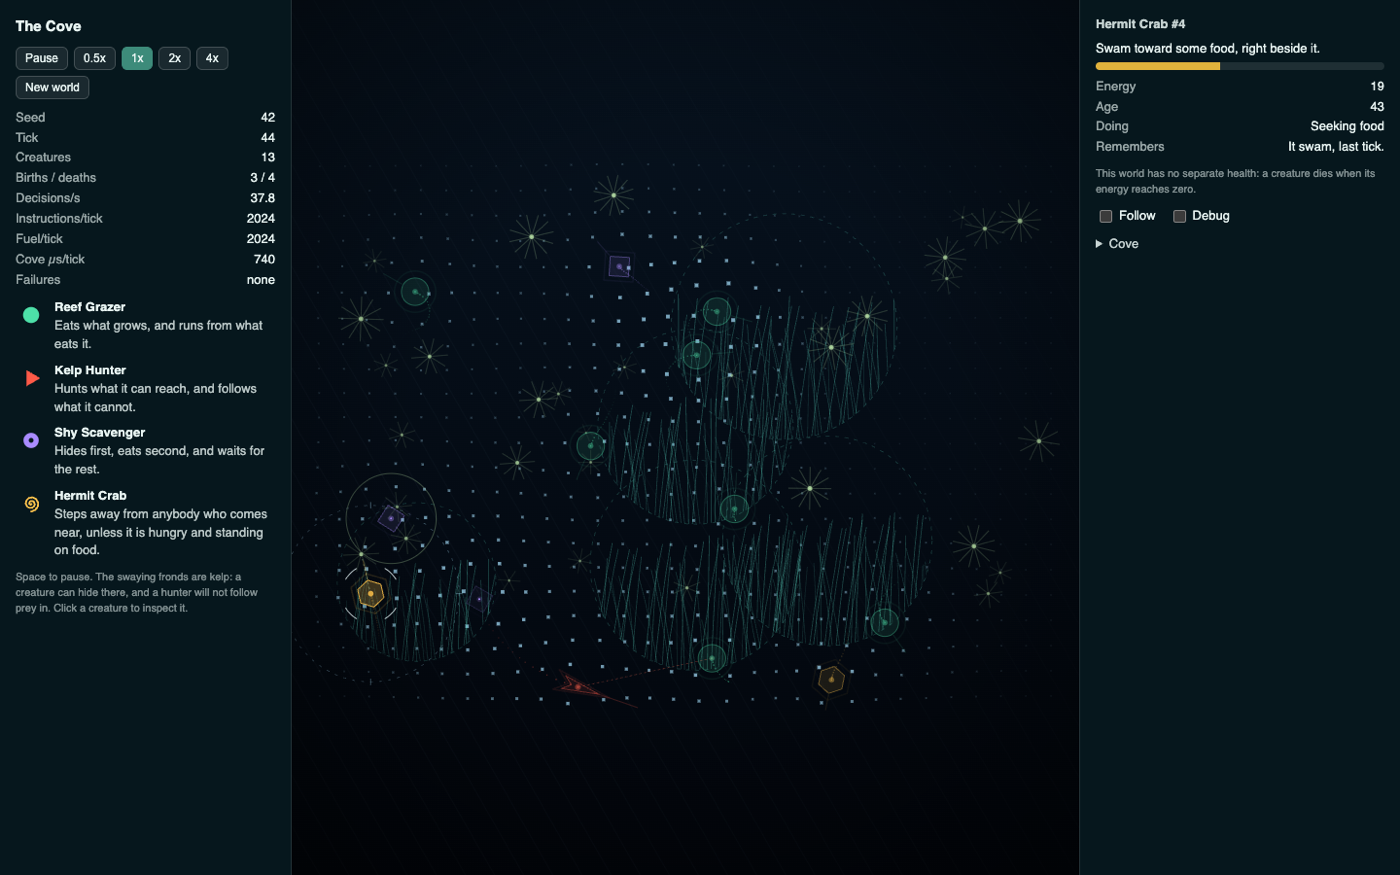
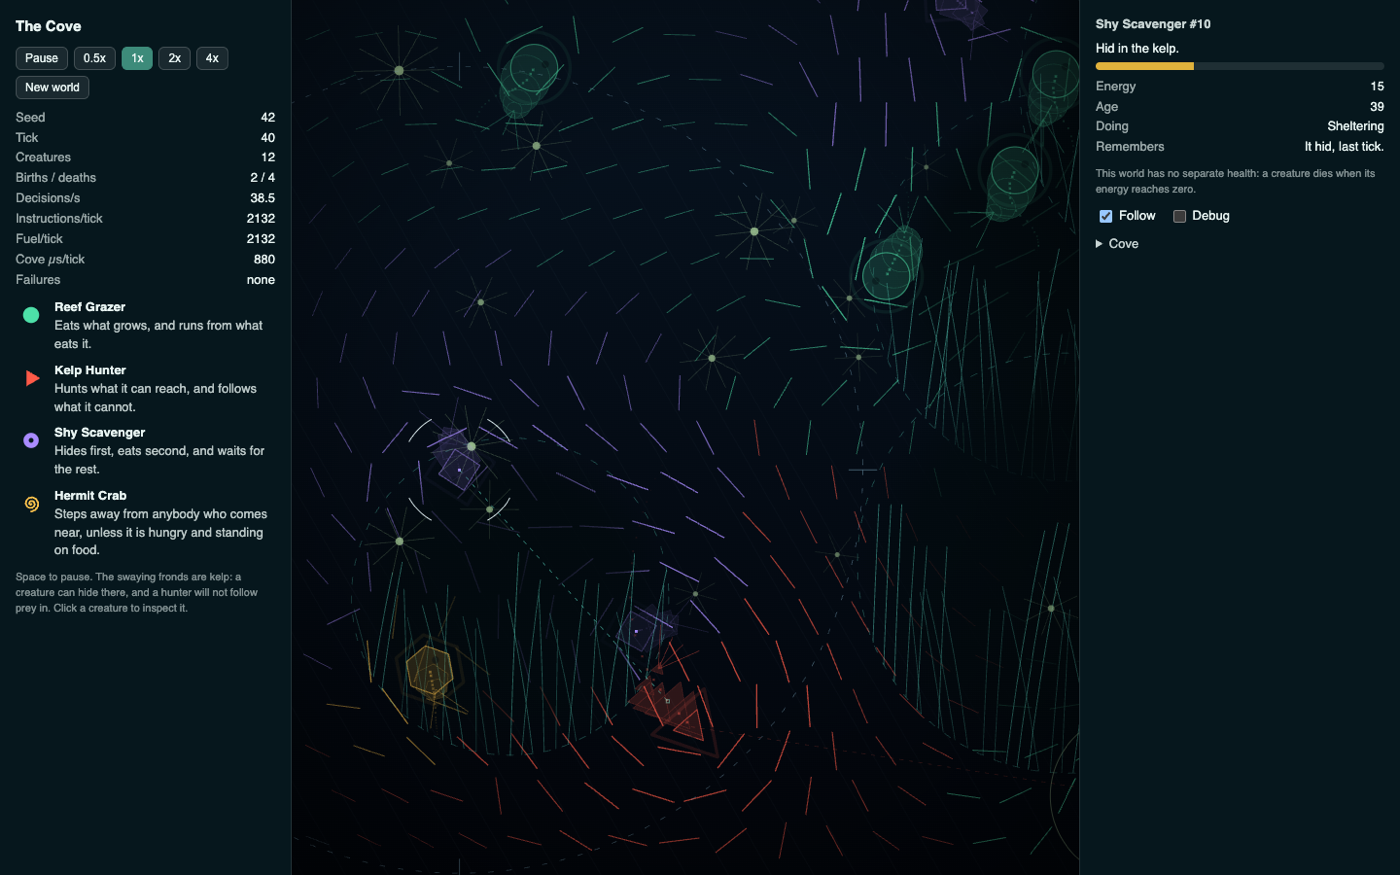
feat(web): a body is one shape repeated down a spine
One primitive is a token, not an animal. A creature is a *series* of them now:
four to seven copies of the same polygon strung along the facing axis, each a
little larger or smaller than the last, some turned a few degrees further round
than the one in front, and the whole chain carrying a wave that travels head to
tail whose speed and amplitude follow the creature's own.

That is the shape a segmented sea creature actually has, and it is an ordinary
generative move — one rule, repeated, varying — so it stays in the register of
the field it swims in rather than becoming an illustration pasted on top of
one. And the wave gives back the motion the single marks had lost: a resting
creature barely stirs and a fleeing one thrashes.

Two things make it read as a body rather than as beads, and both took a wrong
answer first.

**The segments are filled as one path.** Canvas fills the union of the
subpaths, so overlapping circles become a single silhouette with no seams.
Filled separately they are a caterpillar, which is exactly what the first
attempt drew. Every segment's own outline then goes over the top faintly: the
internal arcs are not a mistake to be cleaned up, they are what says the animal
is built out of one shape repeated.

**And the overlap has a narrow window.** Too little and it is a chain of beads;
too much and every body collapses into one slightly-elongated blob, which is
what the second attempt drew. Judging it needed the follow camera — a shape
[…]

diff --git a/apps/web/src/renderer.ts b/apps/web/src/renderer.ts
@@ -709,57 +709,142 @@ function drawTrails(
 // *shape* before any colour is read — which is what the accessibility
 // criterion asks for anyway.
 
-type MarkKind = "chevron" | "circle" | "diamond" | "hex";
+// --- One creature: a body built by repeating one shape down a spine. ---
+//
+// A single primitive is a token, not an animal. A body is a *series* of them:
+// four to seven of the same polygon strung along the facing axis, each a
+// little smaller or larger than the last, some of them turned a few degrees
+// further round than the one in front, and the whole chain carrying a wave
+// that travels from head to tail.
+//
+// That is the shape a segmented sea creature actually has, and it is also an
+// ordinary generative move — one rule, repeated, varying — so it stays in the
+// same register as the field it swims in rather than becoming an illustration
+// pasted on top of one. And the wave is free motion: its speed and amplitude
+// follow the creature's own, so a fleeing animal visibly thrashes and a
+// resting one barely stirs, which is the signal the geometric marks lost.
 
-const MARKS: Readonly<Record<string, MarkKind>> = {
-  wedge: "chevron",
-  round: "circle",
-  ring: "diamond",
-  spiral: "hex",
+type Primitive = "circle" | "triangle" | "diamond" | "hex";
+
+interface Anatomy {
+  /** Which polygon the body is made of. */
+  readonly of: Primitive;
+  /** How many of them. */
+  readonly segments: number;
+  /** How far apart, as a fraction of the head's radius. */
+  readonly gap: number;
+  /** The radius of each segment, head first, as fractions of the head's. */
+  readonly profile: readonly number[];
+  /** Degrees each segment is turned past the one in front. */
+  readonly twist: number;
+  /** How far the tail swings, as a fraction of the head's radius. */
+  readonly sway: number;
+  /** How many strokes fan out of the last segment. */
+  readonly fin: number;
+}
+
+const ANATOMY: Readonly<Record<string, Anatomy>> = {
+  // The grazer: round and blunt, a chain of circles that tapers gently. It is
+  // the shape everything else is read against, so it is the plainest.
+  round: {
+    of: "circle",
+    segments: 5,
+    gap: 0.68,
+    profile: [0.95, 1, 0.82, 0.58, 0.32],
+    twist: 0,
+    sway: 0.55,
+    fin: 3,
+  },
+  // The hunter: long, narrow, and the only body made of a shape with a point.
+  // Seven segments so the wave down it is visible as a wave.
+  wedge: {
+    of: "triangle",
+    segments: 7,
+    gap: 0.6,
+    profile: [0.66, 0.95, 1, 0.82, 0.62, 0.42, 0.26],
+    twist: 0,
+    sway: 0.85,
+    fin: 4,
+  },
+  // The scavenger: a short stack of diamonds, each turned a little further,
+  // so the body reads as something crystalline drifting rather than swimming.
+  ring: {
+    of: "diamond",
+    segments: 4,
+    gap: 0.6,
+    profile: [0.85, 1, 0.72, 0.44],
+    twist: 22,
+    sway: 0.45,
+    fin: 2,
+  },
+  // The crab: three hexagons, largest at the front, barely swaying. A shell
+  // with something under it.
+  spiral: {
+    of: "hex",
+    segments: 3,
+    gap: 0.56,
+    profile: [1, 0.72, 0.45],
+    twist: 14,
+    sway: 0.22,
+    fin: 2,
+  },
 };
 
-const CRUISE_REFERENCE = 1.6;
+const CRUISE_REFERENCE_SPEED = 1.6;
 
-function markPath(
+/// One primitive appended to whatever path is open, for building a union.
+function subPath(
   ctx: CanvasRenderingContext2D,
-  kind: MarkKind,
-  px: number,
-  py: number,
+  of: Primitive,
+  cx: number,
+  cy: number,
+  r: number,
+  angle: number,
+): void {
+  if (of === "circle") {
+    ctx.moveTo(cx + r, cy);
+    ctx.arc(cx, cy, r, 0, Math.PI * 2);
+    return;
+  }
+  const sides = of === "triangle" ? 3 : of === "diamond" ? 4 : 6;
+  for (let i = 0; i < sides; i += 1) {
+    const a = angle + (i / sides) * Math.PI * 2;
+    const x = cx + Math.cos(a) * r;
+    const y = cy + Math.sin(a) * r;
+    if (i === 0) {
+      ctx.moveTo(x, y);
+    } else {
+      ctx.lineTo(x, y);
+    }
+  }
+  ctx.closePath();
+}
+
+function primitivePath(
+  ctx: CanvasRenderingContext2D,
+  of: Primitive,
+  cx: number,
+  cy: number,
   r: number,
   angle: number,
 ): void {
   ctx.beginPath();
-  switch (kind) {
-    case "chevron": {
-      // A dart. The only mark with a point, for the only role that has one.
-      const back = angle + Math.PI;
-      ctx.moveTo(px + Math.cos(angle) * r * 1.45, py + Math.sin(angle) * r * 1.45);
-      ctx.lineTo(px + Math.cos(back - 0.42) * r * 1.1, py + Math.sin(back - 0.42) * r * 1.1);
-      ctx.lineTo(px + Math.cos(back) * r * 0.45, py + Math.sin(back) * r * 0.45);
-      ctx.lineTo(px + Math.cos(back + 0.42) * r * 1.1, py + Math.sin(back + 0.42) * r * 1.1);
-      ctx.closePath();
-      break;
-    }
-    case "circle":
-      ctx.arc(px, py, r, 0, Math.PI * 2);
-      break;
-    case "diamond":
-    case "hex": {
-      const sides = kind === "diamond" ? 4 : 6;
-      for (let i = 0; i < sides; i += 1) {
-        const a = angle + (i / sides) * Math.PI * 2;
-        const x = px + Math.cos(a) * r;
-        const y = py + Math.sin(a) * r;
-        if (i === 0) {
-          ctx.moveTo(x, y);
-        } else {
-          ctx.lineTo(x, y);
-        }
-      }
-      ctx.closePath();
-      break;
+  if (of === "circle") {
+    ctx.arc(cx, cy, r, 0, Math.PI * 2);
+    return;
+  }
+  const sides = of === "triangle" ? 3 : of === "diamond" ? 4 : 6;
+  for (let i = 0; i < sides; i += 1) {
+    const a = angle + (i / sides) * Math.PI * 2;
+    const x = cx + Math.cos(a) * r;
+    const y = cy + Math.sin(a) * r;
+    if (i === 0) {
+      ctx.moveTo(x, y);
+    } else {
+      ctx.lineTo(x, y);
     }
   }
+  ctx.closePath();
 }
 
 function drawCreatureMark(
@@ -772,54 +857,118 @@ function drawCreatureMark(
 ): void {
   const centre = toPixel(layout, creature.x, creature.y);
   const angle = Math.atan2(creature.facingY, creature.facingX);
-  const kind = MARKS[entry.shape] ?? "circle";
-  const r = (0.7 + entry.size * 0.13) * layout.cell;
-  const speedFrac = Math.min(1, Math.max(0, creature.speed / CRUISE_REFERENCE));
+  const body = ANATOMY[entry.shape] ?? ANATOMY["round"]!;
+  const head = (0.62 + entry.size * 0.12) * layout.cell;
+  const speedFrac = Math.min(
+    1,
+    Math.max(0, creature.speed / CRUISE_REFERENCE_SPEED),
+  );
 
-  ctx.save();
-  ctx.globalAlpha = alphaMul;
-  ctx.lineJoin = "round";
+  // The wave travels head to tail: one phase for the animal, and each segment
+  // reads it a little later than the one in front.
+  const beat = (0.5 + speedFrac * 2.4) / 1000;
+  const phase = now * beat * Math.PI * 2 + creature.id * 2.399963;
+  const amplitude = head * body.sway * (0.18 + speedFrac * 0.95);
 
-  // A halo, but a ring rather than a smear: the one soft thing on the reef
-  // would be the one thing that looked out of place.
-  ctx.globalAlpha = alphaMul * (0.1 + speedFrac * 0.16);
-  ctx.strokeStyle = entry.colour;
-  ctx.lineWidth = Math.max(1, layout.cell * 0.12);
-  markPath(ctx, kind, centre.px, centre.py, r * 1.5, angle);
-  ctx.stroke();
+  const dx = Math.cos(angle);
+  const dy = Math.sin(angle);
+  const nx = -dy;
+  const ny = dx;
 
-  // The mark itself: filled faintly so it has body, outlined brightly so it
-  // has an edge. Contrast of edge against near-black is what the first pass
-  // had none of.
-  ctx.globalAlpha = alphaMul * 0.26;
-  ctx.fillStyle = entry.colour;
-  markPath(ctx, kind, centre.px, centre.py, r, angle);
-  ctx.fill();
-
-  ctx.globalAlpha = alphaMul;
-  ctx.strokeStyle = entry.colour;
-  ctx.lineWidth = Math.max(1, layout.cell * 0.055);
-  markPath(ctx, kind, centre.px, centre.py, r, angle);
-  ctx.stroke();
-
-  // Where it is going, as a line out of the front. Length follows speed, so
-  // a creature at rest has none and a fleeing one is visibly urgent.
-  if (speedFrac > 0.02) {
-    const reach = r * (0.6 + speedFrac * 2.4);
-    ctx.globalAlpha = alphaMul * (0.25 + speedFrac * 0.5);
-    ctx.lineWidth = Math.max(0.8, layout.cell * 0.03);
-    ctx.beginPath();
-    ctx.moveTo(px(centre.px, angle, r * 1.1), py(centre.py, angle, r * 1.1));
-    ctx.lineTo(px(centre.px, angle, r * 1.1 + reach), py(centre.py, angle, r * 1.1 + reach));
-    ctx.stroke();
+  const nodes: { x: number; y: number; r: number; a: number }[] = [];
+  let along = 0;
+  for (let i = 0; i < body.segments; i += 1) {
+    const scale = body.profile[i] ?? 0.3;
+    const r = head * scale;
+    if (i > 0) {
+      along += head * body.gap * ((body.profile[i - 1] ?? 1) + scale) * 0.5;
+    }
+    // Amplitude grows down the body: a head barely moves and a tail whips.
+    const swing =
+      Math.sin(phase - i * 0.85) * amplitude * (i / (body.segments - 1 || 1));
+    nodes.push({
+      x: centre.px - dx * along + nx * swing,
+      y: centre.py - dy * along + ny * swing,
+      r,
+      a: angle + (body.twist * i * Math.PI) / 180,
+    });
   }
 
-  // The core. One bright dot, so a creature has a definite position even at
-  // the far end of a zoomed-out reef.
-  ctx.globalAlpha = alphaMul;
+  ctx.save();
+  ctx.lineJoin = "round";
+
+  // A halo around the head only, so a creature has weight without the whole
+  // body glowing into a smear.
+  ctx.globalAlpha = alphaMul * (0.09 + speedFrac * 0.15);
+  ctx.strokeStyle = entry.colour;
+  ctx.lineWidth = Math.max(1, layout.cell * 0.13);
+  primitivePath(ctx, body.of, centre.px, centre.py, head * 1.45, angle);
+  ctx.stroke();
+
+  // The body as one path with every segment in it, filled once. Canvas fills
+  // the *union* of the subpaths, so overlapping circles become a single
+  // silhouette with no seams where they meet — which is the whole reason the
+  // segments overlap this hard. A row of separately-filled shapes is a
+  // caterpillar; their union is a body.
+  ctx.globalAlpha = alphaMul * 0.3;
   ctx.fillStyle = entry.colour;
   ctx.beginPath();
-  ctx.arc(centre.px, centre.py, Math.max(1, r * 0.2), 0, Math.PI * 2);
+  for (const node of nodes) {
+    subPath(ctx, body.of, node.x, node.y, node.r, node.a);
+  }
+  ctx.fill();
+
+  // Then every segment's own outline over the top, faintly. The internal arcs
+  // are not a mistake to be cleaned up: they are what says this animal is
+  // built out of one shape repeated, which is the register the rest of the
+  // reef is drawn in.
+  ctx.globalAlpha = alphaMul * 0.38;
+  ctx.strokeStyle = entry.colour;
+  ctx.lineWidth = Math.max(0.7, layout.cell * 0.025);
+  ctx.beginPath();
+  for (const node of nodes) {
+    subPath(ctx, body.of, node.x, node.y, node.r, node.a);
+  }
+  ctx.stroke();
+
+  // The head, brighter, so a body has a front.
+  const headNode = nodes[0]!;
+  ctx.globalAlpha = alphaMul * 0.95;
+  ctx.lineWidth = Math.max(0.9, layout.cell * 0.045);
+  primitivePath(ctx, body.of, headNode.x, headNode.y, headNode.r, headNode.a);
+  ctx.stroke();
+
+  // The fin: strokes fanning off the last segment, swinging with the wave.
+  const tail = nodes[nodes.length - 1]!;
+  const previous = nodes[nodes.length - 2] ?? tail;
+  const backAngle = Math.atan2(tail.y - previous.y, tail.x - previous.x);
+  ctx.globalAlpha = alphaMul * 0.8;
+  ctx.strokeStyle = entry.colour;
+  ctx.lineWidth = Math.max(0.9, layout.cell * 0.04);
+  ctx.lineCap = "round";
+  const spread = 0.55;
+  ctx.beginPath();
+  for (let i = 0; i < body.fin; i += 1) {
+    const t = body.fin === 1 ? 0 : (i / (body.fin - 1)) * 2 - 1;
+    const a = backAngle + t * spread;
+    const reach = head * (1.35 + Math.abs(t) * 0.55);
+    ctx.moveTo(tail.x, tail.y);
+    ctx.lineTo(tail.x + Math.cos(a) * reach, tail.y + Math.sin(a) * reach);
+  }
+  ctx.stroke();
+
+  // An eye, on the head, offset to one side. Two pixels of dark and the
+  // difference between a shape moving and an animal looking where it goes.
+  ctx.globalAlpha = alphaMul * 0.8;
+  ctx.fillStyle = "rgba(4, 12, 18, 1)";
+  ctx.beginPath();
+  ctx.arc(
+    centre.px + dx * head * 0.36 + nx * head * 0.3,
+    centre.py + dy * head * 0.36 + ny * head * 0.3,
+    Math.max(0.9, head * 0.15),
+    0,
+    Math.PI * 2,
+  );
   ctx.fill();
   ctx.restore();
 }
